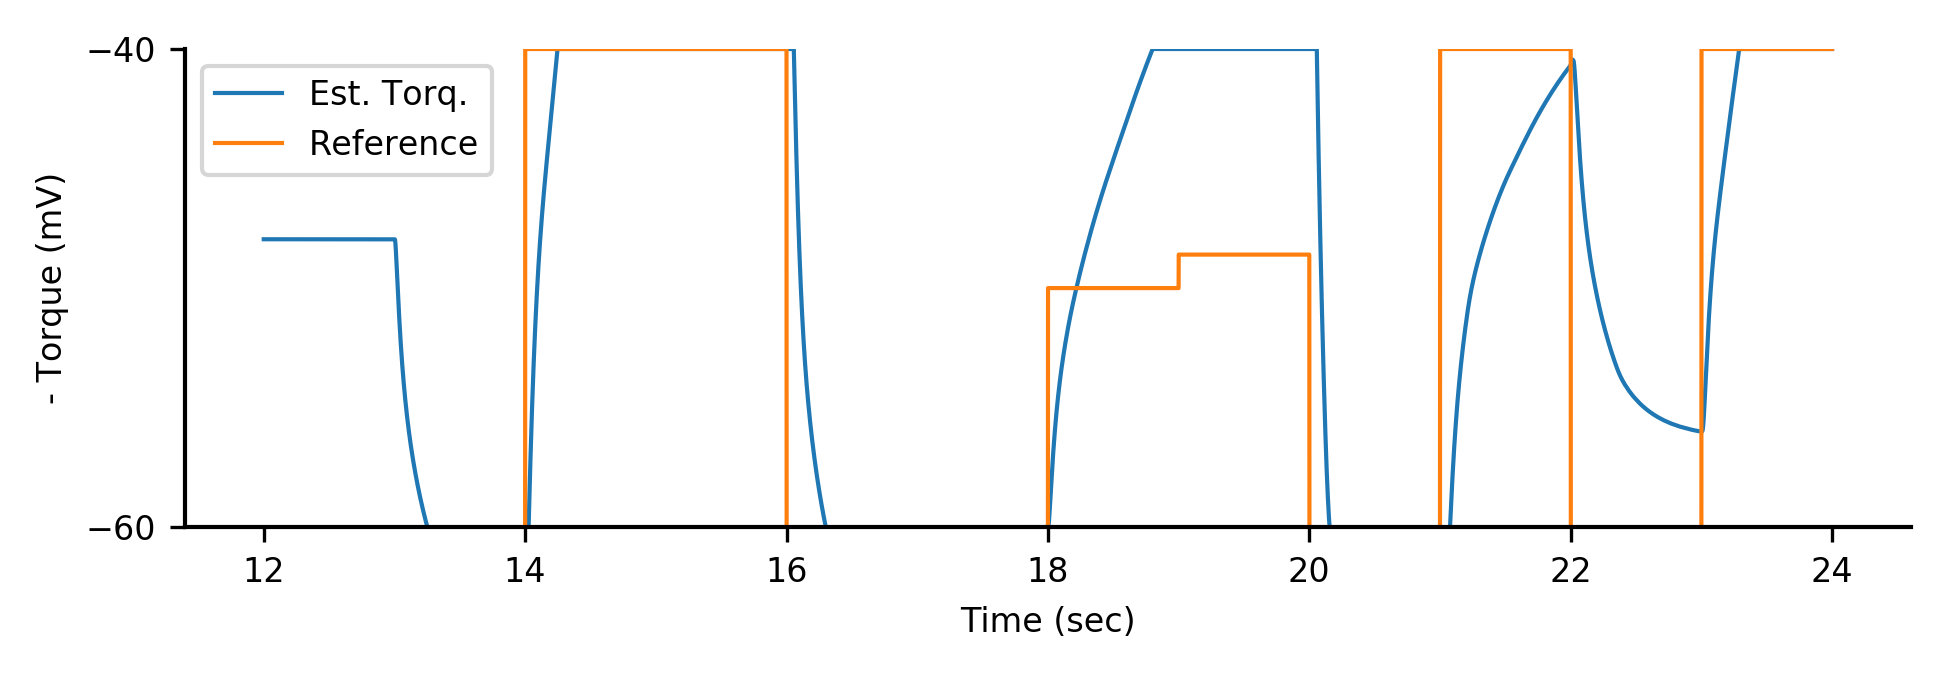
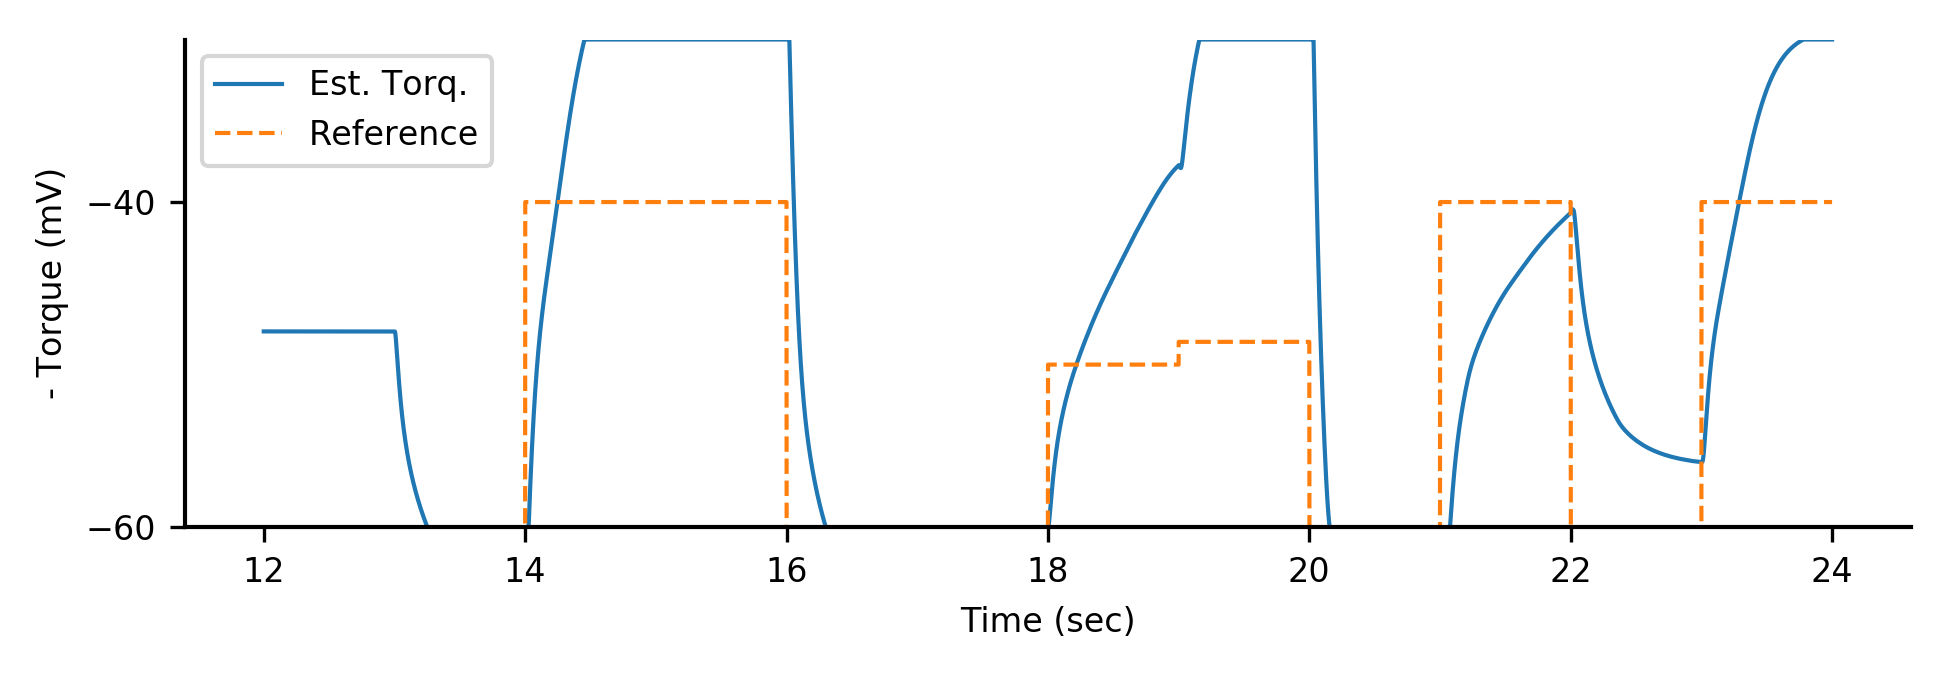
Regen torque optimize with dashed line, new scale

diff --git a/writeup/scripts/plot_torque_optimize.py b/writeup/scripts/plot_torque_optimize.py
@@ -8,6 +8,7 @@ index = data[:, 0]
 time = data[:, 1]
 
 data[:, 2:] *= 1000
+ylimit = -30
 
 theta_des = data[:, 2]
 theta = data[:, 3]
@@ -25,9 +26,9 @@ neg_vel = data[:, 14]
 pos_acc_fut = data[:, 15]
 neg_acc_fut = data[:, 16]
 pos_tor = data[:, 17]
-pos_tor = np.clip(pos_tor, -60, -40)
+pos_tor = np.clip(pos_tor, -60, ylimit)
 neg_tor = data[:, 18]
-neg_tor = np.clip(neg_tor, -60, -40)
+neg_tor = np.clip(neg_tor, -60, ylimit)
 
 # 5000 steps per second
 pos_ref = np.zeros(pos_tor.shape)
@@ -49,10 +50,10 @@ pos_ref[120000:125000] = -20
 neg_ref = - np.copy(pos_ref)
 
 pos_ref += -60
-pos_ref = np.clip(pos_ref, -60, -40)
+pos_ref = np.clip(pos_ref, -60, ylimit)
 
 neg_ref += -60
-neg_ref = np.clip(neg_ref, -60, -40)
+neg_ref = np.clip(neg_ref, -60, ylimit)
 
 setup = [
 ('Pos', [pos_tor, pos_ref]),
@@ -77,7 +78,8 @@ for name, datasets in setup:
     vel, ref = datasets
     # print(len(time))
     ax.plot(time[65000:], vel[65000:], linewidth=linewidth, label='Est. Torq.')
-    ax.plot(time[65000:], ref[65000:], linewidth=linewidth, label='Reference')
+    ax.plot(time[65000:], ref[65000:], linewidth=linewidth, linestyle='dashed',
+        label='Reference')
     
     if count == 1:
         ax.set_ylabel('+ Torque (mV)')
@@ -86,7 +88,7 @@ for name, datasets in setup:
         ax.set_ylabel('- Torque (mV)')
     ax.set_xlabel('Time (sec)')
 
-    ax.set_ylim(-60, -40)
+    ax.set_ylim(-60, ylimit)
     ax.set_yticks([-60, -40])
 
     ax.spines['right'].set_color('none')
@@ -95,7 +97,7 @@ for name, datasets in setup:
     ax.spines['bottom'].set_linewidth(linewidth)
 
     x0, x1 = ax.get_xlim()
-    y0, y1 = ax.get_xlim()
+    y0, y1 = ax.get_ylim()
     # ax.set_aspect((x1 - x0)/(y1 - y0))
 
     plt.legend()

diff --git a/writeup/main.tex b/writeup/main.tex
@@ -152,6 +152,8 @@ Additionally I'd like to thank my family and friends for their continuing suppor
 
 This research develops a new synthetic nervous system controller for control of joints using pneumatic actuators in order to create a more efficient and adaptable walking robot system. This design implements new features not previously seen in a control oriented nervous system. The design develops 3 major components not previously used for control of antagonistic pneumatic actuators. The controller uses an internal model of the actuators to estimate the state of the joint. The controller also uses internal estimates of the dynamics of the joint to continually optimize the control output. Additionally, the controller updates its own internal system model with a memory-like loop to allow the controller to adapt to any joint and trajectory. The controller allows for the replacement of proportional or other control designs with a learning system that decreases wasted antagonistic muscle activation and wasted energy, decreases phase lag and increases trajectory tracking accuracy.
 
+% TODO(buckbaskin): consider Nick's high level points from the email
+
 \chapter{Introduction}
 \label{chap:introduction}
 
